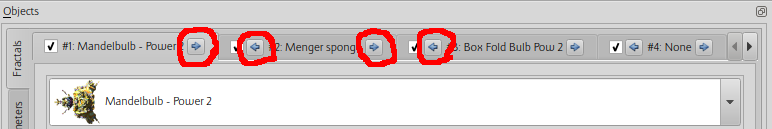
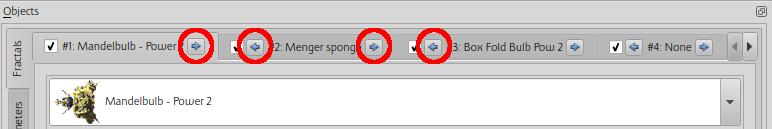
misc changes
- fixed some wording
- edited a couple of figures
- title page with background
- added build script

diff --git a/mandelbulber2/manual/chapters/maxiter_vs_distthresh.tex b/mandelbulber2/manual/chapters/maxiter_vs_distthresh.tex
@@ -23,36 +23,31 @@ fractal iteration loop. It controls only ray-marching. The iteration loop always
 runs to achieve Bailout\index{termination condition!bailout}, (then if bailout is not reached the iteration stops at
 Maxiter). (see page \pageref{bailout-maxiter})
 
-\simpleImageWithCaptionHalfWidth{img/manual/media/stop_raymarching_at_disttrhersh}
-{Example for 1st case - stop ray-marching at distance threshold}
-{stop_raymarching_at_disttrhersh}
-
 On figure \ref{stop_raymarching_at_disttrhersh} ray-marching stops at distance threshold\index{ray marching!distance threshold}. In most cases the fractal iteration
 loop stops on bailout condition\index{termination condition!bailout}, (because away from surface it is not possible
 to reach Maxiter). It makes rendering of fractals much faster.
-
-\simpleImageWithCaptionHalfWidth{img/manual/media/stop_raymarching_at_maxiter}
-{Example for 2nd case: Stop ray-marching at Maxiter}
-{stop_raymarching_at_maxiter}
-
 On figure \ref{stop_raymarching_at_maxiter} ray-marching stops at the photon step when the maximum number of iterations is
 reached\index{termination condition!maxiter} (ray-marching distance threshold is ignored). In many cases iteration
 loop stops on bailout condition (away from fractal surface), but on the fractal
 surface the maximum number of iterations is calculated (when bailout is not
 reached).
 
-\simpleImageWithCaptionHalfWidth{img/manual/media/stop_raymarching_at_disttrhersh_iter4}
+\twoImagesWithTwoCaptionsFullWidth{img/manual/media/stop_raymarching_at_disttrhersh.png}
+{Example for 1st case - stop ray-marching at distance threshold}
+{stop_raymarching_at_disttrhersh}
+{img/manual/media/stop_raymarching_at_maxiter.png}
+{Example for 2nd case: Stop ray-marching at Maxiter}
+{stop_raymarching_at_maxiter}
+
+\twoImagesWithTwoCaptionsFullWidth{img/manual/media/stop_raymarching_at_disttrhersh_iter4.png}
 {Example for 1st case: Stop ray-marching at bailout with low Maxiter}
 {stop-raymarching-at-bailout-low-maxiter}
-
-Figure \ref{stop-raymarching-at-bailout-low-maxiter} shows what happens if maximum number of iterations is set to 4. Even if Maxiter\index{termination condition!maxiter} is reached the
-ray-marching is continued until the ray marching distance threshold is reached.
-
-\simpleImageWithCaptionHalfWidth{img/manual/media/stop_raymarching_at_maxiter_iter4}
+{img/manual/media/stop_raymarching_at_maxiter_iter4.png}
 {Example for 2nd case: Stop ray-marching at maxiter with low maxiter}
 {stop ray-marching-at-maxiter-low-maxiter}
 
+Figure \ref{stop-raymarching-at-bailout-low-maxiter} shows what happens if maximum number of iterations is set to 4. Even if Maxiter\index{termination condition!maxiter} is reached the
+ray-marching is continued until the ray marching distance threshold is reached.
 Figure \ref{stop ray-marching-at-maxiter-low-maxiter} shows case when maximum number of iterations is reached. Ray-marching is stopped even
 if distance threshold is not reached.
-
 

diff --git a/mandelbulber2/manual/chapters/interpolation.tex b/mandelbulber2/manual/chapters/interpolation.tex
@@ -122,26 +122,23 @@ parameters. If value exceed 360 degrees, then will go back to zero.
 \subsubsection{Collision}\label{collision}
 
 Fast approaching the obstacle may cause inadvertent drag to the camera towards
-the center of the object. 
-
-\simpleImageWithCaptionHalfWidth{img/manual/media/catmull-rom_collision.png}
-{Interpolation - Catmul-Rom with collision}
-{catmull-rom_collision}
-
-It is recommended to maintain the principle that one
+the center of the object. It is recommended to maintain the principle that one
 keyframe does not reduce the distance to the object more than five times.
 
-\simpleImageWithCaptionHalfWidth{img/manual/media/catmull-rom_no_collision.png}
-{Interpolation - Catmul-Rom without collision}
+\twoImagesWithTwoCaptionsFullWidth{img/manual/media/catmull-rom_collision.png}
+{Catmul-Rom with collision}
+{catmull-rom_collision}
+{img/manual/media/catmull-rom_no_collision.png}
+{Catmul-Rom without collision}
 {catmull-rom_no_collision}
 
 \subsubsection{Fly through the gap}\label{fly-through-the-gap}
 
 It is recommended to place a keyframe at the point where the camera flies
-through the gap.
+through a hole / gap in the fractal.
 
-\simpleImageWithCaptionHalfWidth{img/manual/media/catmull-rom_hole.png}
-{Interpolation - Catmul-Rom through a hole}
+\simpleImageWithCaptionSmallWidth{img/manual/media/catmull-rom_hole.png}
+{Interpolation - Catmul-Rom path through a hole}
 {catmull-rom_hole}
 
 \subsubsection{Proper conduct cameras between
@@ -149,8 +146,8 @@ through the gap.
 
 Figure \ref{catmull-rom_example} shows how keyframes should be located between objects to avoid collisions caused by interpolation functions.
 
-\simpleImageWithCaptionHalfWidth{img/manual/media/catmull-rom_example.png}
-{Interpolation - Catmul-Rom through a hole}
+\simpleImageWithCaptionSmallWidth{img/manual/media/catmull-rom_example.png}
+{Interpolation - Catmul-Rom path evading different obstacles}
 {catmull-rom_example}
 
 \subsection{Changing interpolation types}\label{changing-interpolation-types}

diff --git a/handbook.tex b/handbook.tex
@@ -11,8 +11,8 @@
 
 \newcommand{\mTitle}{Mandelbulber}
 \newcommand{\mSubtitle}{End User Manual}
-\newcommand{\mVersionDocument}{2.10.0.9.4}
-\newcommand{\mDateDocument}{2017-February}
+\newcommand{\mVersionDocument}{2.11.0.9.5}
+\newcommand{\mDateDocument}{2017-April}
 \newcommand{\mAuthor}{
 	
 Krzysztof Marczak (\href{mailto:buddhi1980@gmail.com}{buddhi1980@gmail.com}),
@@ -46,9 +46,9 @@ Robert Pancoast (\href{mailto:RobertPancoast77@gmail.com}{RobertPancoast77@gmail
 	\end{center}
 	\normalsize
 	\begin{flushleft}
-			\textbf{Download:} \url{https://sourceforge.net/projects/mandelbulber/}\\
-			\textbf{Project Website:} \url{https://github.com/buddhi1980/mandelbulber2/}\\
-			\textbf{Forum:} \url{http://www.fractalforums.com/mandelbulber/}\\
+                        \hspace{3cm} \textbf{Download:}         \hfill \url{https://sourceforge.net/projects/mandelbulber/}\\
+                        \hspace{3cm} \textbf{Project Website:}  \hfill \url{https://github.com/buddhi1980/mandelbulber2/}\\
+                        \hspace{3cm} \textbf{Forum:}            \hfill \url{http://www.fractalforums.com/mandelbulber/}\\
 	\end{flushleft}
 	\vspace{2cm}
 	\textbf{Editors:}\\
@@ -79,6 +79,8 @@ Robert Pancoast (\href{mailto:RobertPancoast77@gmail.com}{RobertPancoast77@gmail
 \newpage
 
 \lstlistoflistings
+
+\listoffigures
 
 %\newpage
 %\pagenumbering{Roman}

diff --git a/mandelbulber2/manual/chapters/iteration_loop.tex b/mandelbulber2/manual/chapters/iteration_loop.tex
@@ -117,14 +117,14 @@ enable hybrid fractals:
 \end{itemize}
 
 After that you can switch to any slot and define fractal formulas in each slot
-(if needed) like it's shown in figure \ref{fractal_tabs_with_defined_fractals}.
+(if needed) like it's shown in figure \ref{fractal_tabs_with_defined_fractals_tabs_highlighted}.
 In this figure \emph{Mandelbulb - Power 2} is selected in slot \#1, \emph{Menger Sponge}
 in slot \#2 and \emph{Box Fold Bulb Pow 2} in slot \#3. These formulas will be
 used in the next examples.
 
-\simpleImageWithCaption75Width{img/manual/media/fractal_tabs_with_defined_fractals.png}
+\simpleImageWithCaption75Width{img/manual/media/fractal_tabs_with_defined_fractals_tabs_highlighted.png}
 {Fractal Tab - Multiple formula slots filled}
-{fractal_tabs_with_defined_fractals}
+{fractal_tabs_with_defined_fractals_tabs_highlighted}
 
 \subsubsection{One iteration for each slot}
 

diff --git a/mandelbulber2/manual/chapters/navigation.tex b/mandelbulber2/manual/chapters/navigation.tex
@@ -55,12 +55,15 @@ controlled) speed.
 A user can navigate by operating the arrow keys on the Navigation dock, with the
 user defined steps.
 
-There are three modes for changing the relationship between camera and target.
+There are three modes for changing the relationship between camera and target:
+
+\begin{multicols}{3}
 \begin{itemize}
 	\item move camera and target
 	\item move only camera
 	\item move only target
 \end{itemize}
+\end{multicols}
 
 \subsubsection{Move camera and target mode}\label{move-camera-and-target-mode}\index{navigation!camera}
 

diff --git a/mandelbulber2/preamble.tex b/mandelbulber2/preamble.tex
@@ -16,7 +16,13 @@
 \usepackage{hyperref}
 \usepackage{listings}
 \usepackage{float}
+\usepackage{tikz}
 \usepackage[super]{nth}
+\usepackage[firstpage]{draftwatermark}
+
+\SetWatermarkLightness{0.9}
+\SetWatermarkText{\tikz{\node[opacity=0.12]{
+	\includegraphics[width=1.0\paperwidth, angle=-45]{img/mandelbulber_background.png}}}}
 
 \usepackage[font={footnotesize,it}]{caption}
 \usepackage{chngcntr}

diff --git a/mandelbulber2/makro.tex b/mandelbulber2/makro.tex
@@ -12,7 +12,7 @@
 	\begin{figure}[H]
 		\begin{center}
 			\includegraphics[width=1.00\linewidth]{#1}
-			\vspace*{-2mm}
+			\vspace*{-6mm}
 			\caption{#2}
 			\vspace*{-8mm}
 			\label{#3}
@@ -99,3 +99,4 @@
 		\end{center}
 	\end{figure}
 }
+
